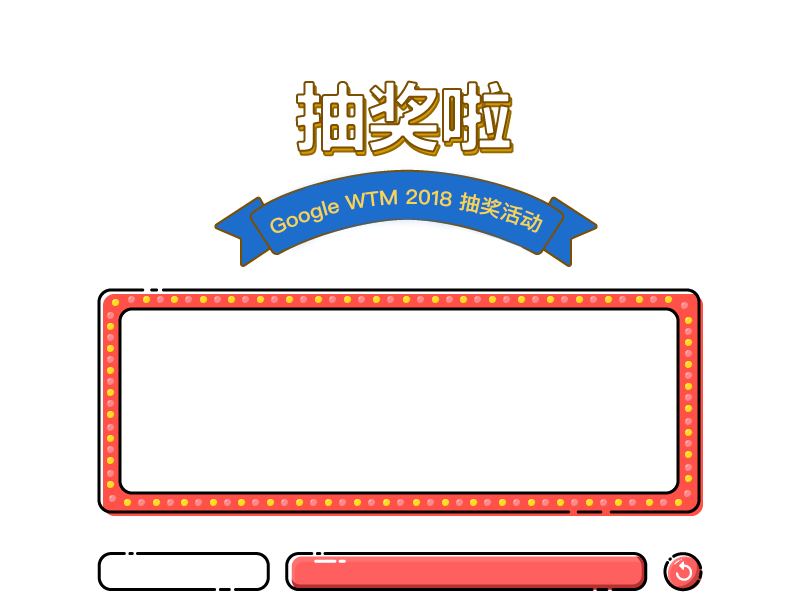
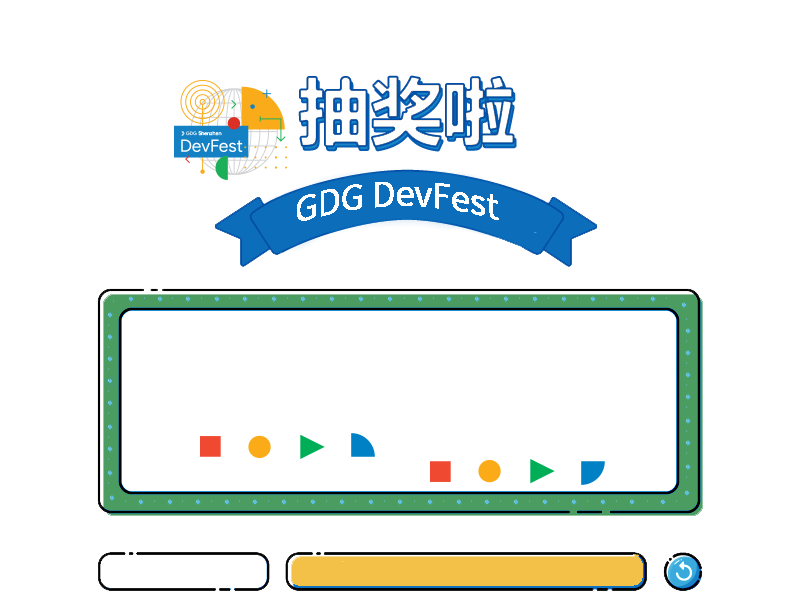
修改主题外观

diff --git a/index.html b/index.html
@@ -2,7 +2,7 @@
 <html>
 <head>
     <meta charset="UTF-8">
-    <title>Title</title>
+    <title>抽奖啦！</title>
     <link rel="stylesheet" href="css/style.css"/>
     <link rel="stylesheet" href="css/animate.css"/>
     <script src="js/lib/jquery-1.12.4.min.js"></script>

diff --git a/css/style.css b/css/style.css
@@ -153,7 +153,7 @@ html {
 }
 
 body {
-    background: #FFC21C;
+    background: url('img/wallpaper.jpg');
     height: 100%;
     width: 100%;
     margin: 0;
